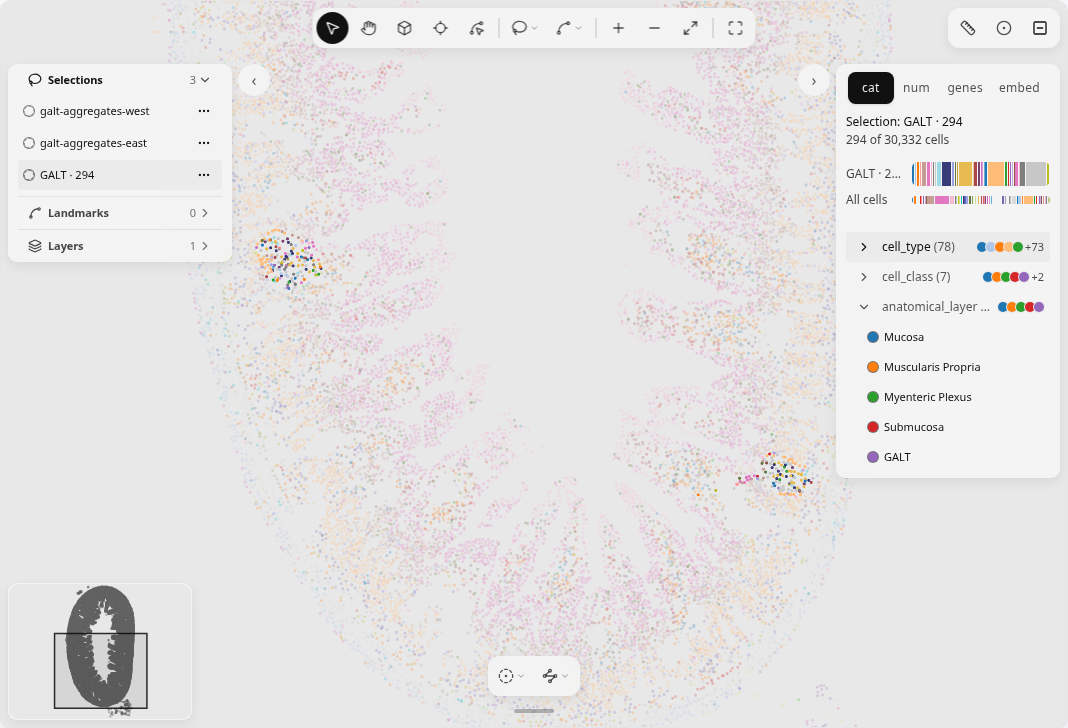
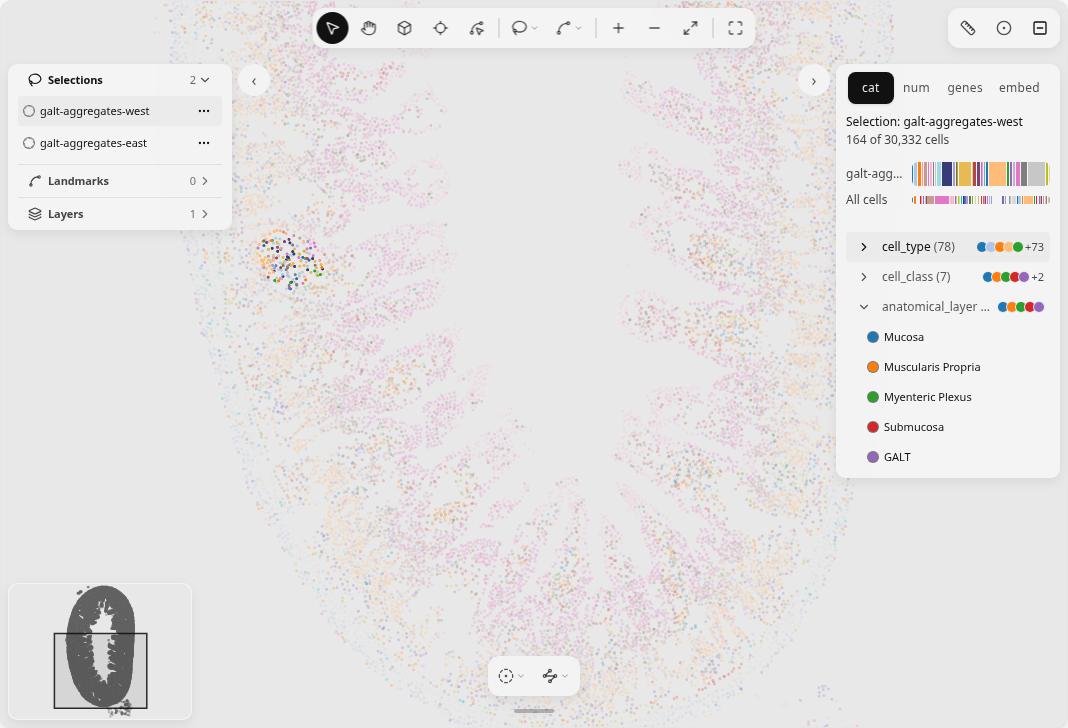
fix(ileum): tighten east GALT lasso to >=90% union purity
Eastern polygon uses inner 92.5% radial GALT hull (+3% pad) so the
west/east union reaches 93.9% GALT (278 selected, 261 GALT) while
keeping full coverage of the 260 annotated aggregate cells.

Refresh tutorial copy, still captures, and PR evidence scripts
(per-aggregate close-ups; drop Playwright-only union selection chip).

diff --git a/demos/ileum_2d.py b/demos/ileum_2d.py
@@ -135,7 +135,7 @@ def _(mo, w):
 
 @app.cell
 def _(w):
-    # Tight hulls per annotated GALT aggregate (`anatomical_layer == "GALT"`), western + eastern.
+    # Western: +1 µm padded convex hull of annotated GALT. Eastern: inner 92.5% radial GALT hull (+3% pad).
     w.selections = [
         {
             "id": "galt-aggregates-west",
@@ -162,22 +162,18 @@ def _(w):
             "id": "galt-aggregates-east",
             "type": "polygon",
             "vertices": [
-                [-3057.83, 1698.77],
-                [-3203.83, 1753.98],
-                [-3054.59, 1715.1],
-                [-3038.34, 1730.95],
-                [-3027.98, 1747.03],
-                [-2993.24, 1750.69],
-                [-2983.99, 1747.98],
-                [-2964.16, 1723.35],
-                [-2961.4, 1715.74],
-                [-2969.14, 1697.16],
-                [-3000.04, 1679.67],
-                [-3034.12, 1667.94],
-                [-3039.64, 1668.04],
-                [-3055.85, 1676.73],
-                [-3058.78, 1691.55],
-                [-3057.83, 1698.77],
+                [-2992.42, 1752.03],
+                [-3028.2, 1748.27],
+                [-3055.62, 1715.37],
+                [-3058.96, 1698.55],
+                [-3059.93, 1691.12],
+                [-3058.21, 1686.83],
+                [-3040.21, 1666.9],
+                [-3034.53, 1666.8],
+                [-2999.43, 1678.88],
+                [-2967.61, 1696.89],
+                [-2967.12, 1719.82],
+                [-2982.89, 1749.24],
             ],
         },
     ]

diff --git a/website/content/get-started/tutorial-explore-cells-2d.md b/website/content/get-started/tutorial-explore-cells-2d.md
@@ -62,7 +62,7 @@ galt_hits = w.get_obs_names("galt-aggregates-west").union(
 )
 ```
 
-**Result:** The seeded headless lassos select **294 cells** in total, **260** with `anatomical_layer` GALT (**88.4%** of the selection). That covers the annotated GALT cells in the two cryptopatch aggregates on this slice (western polygon **90.2%** GALT, 164 cells; eastern **86.2%** GALT, 130 cells). Your own lassos may differ.
+**Result:** The seeded headless lassos select **278 cells** in total, **261** with `anatomical_layer` GALT (**93.9%** of the selection), covering **all 260** annotated GALT cells in the two cryptopatch aggregates on this slice. The western polygon is **90.2%** GALT (164 cells, 148 GALT); the tightened eastern polygon is **99.1%** GALT (114 cells, 113 GALT). Your own lassos may differ.
 
 <figure class="ml-hero ml-hero--still" markdown="0">
 <img class="ml-only-dark" src="../assets/tutorials/explore-cells-2d/still-galt-selection.dark.png" alt="Two GALT cryptopatch lassos on the ileum map with cell-type counts for the selection." loading="lazy">
@@ -76,7 +76,7 @@ enrich = ml.enrichment(adata, galt_hits, obs_key="cell_type")
 enrich
 ```
 
-**Result:** Stromal and innate immune types rank highest by `log2_enrichment` relative to the whole section (seeded union: FRC 6.12, cDC (Il22ra2+) 5.99, ILC3 5.58, FDC 5.27, B (follicular) 4.44).
+**Result:** Stromal and innate immune types rank highest by `log2_enrichment` relative to the whole section (seeded union: FRC 6.20, cDC (Il22ra2+) 6.04, ILC3 5.66, FDC 5.35, B (follicular) 4.52).
 
 Flag the selection and plot immune markers:
 
